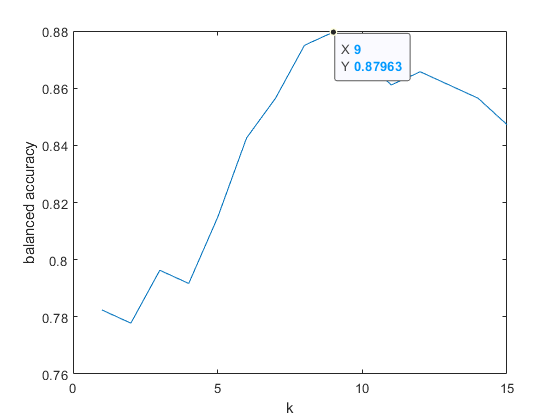
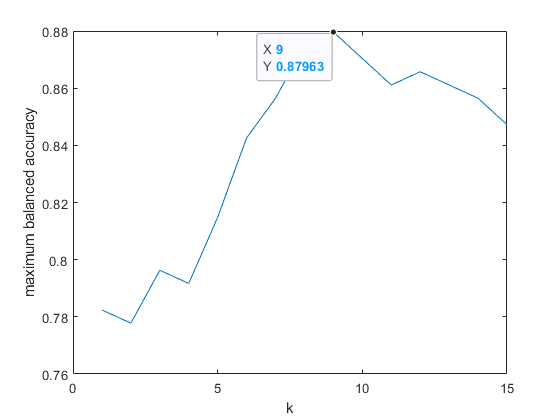
petita modificació a experiments de k i numbins

Changed region(s): [[0.4554, 0.0619, 0.7589, 0.2167], [0.0304, 0.2476, 0.0607, 0.7119]]

diff --git a/experiment_numbins.m b/experiment_numbins.m
@@ -13,5 +13,5 @@ end
 
 figure
 plot(b_accuracies);
-ylabel("balanced accuracy");
+ylabel("maximum balanced accuracy");
 xlabel("numbins");

diff --git a/experiment_k.m b/experiment_k.m
@@ -12,5 +12,5 @@ end
 
 figure
 plot(b_accuracies);
-ylabel("balanced accuracy");
+ylabel("maximum balanced accuracy");
 xlabel("k");
